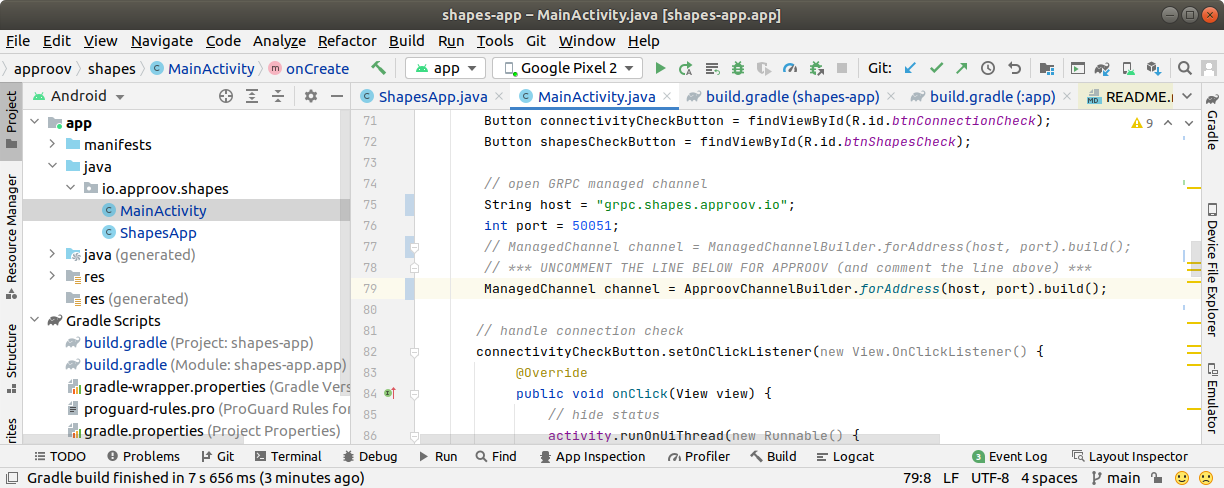
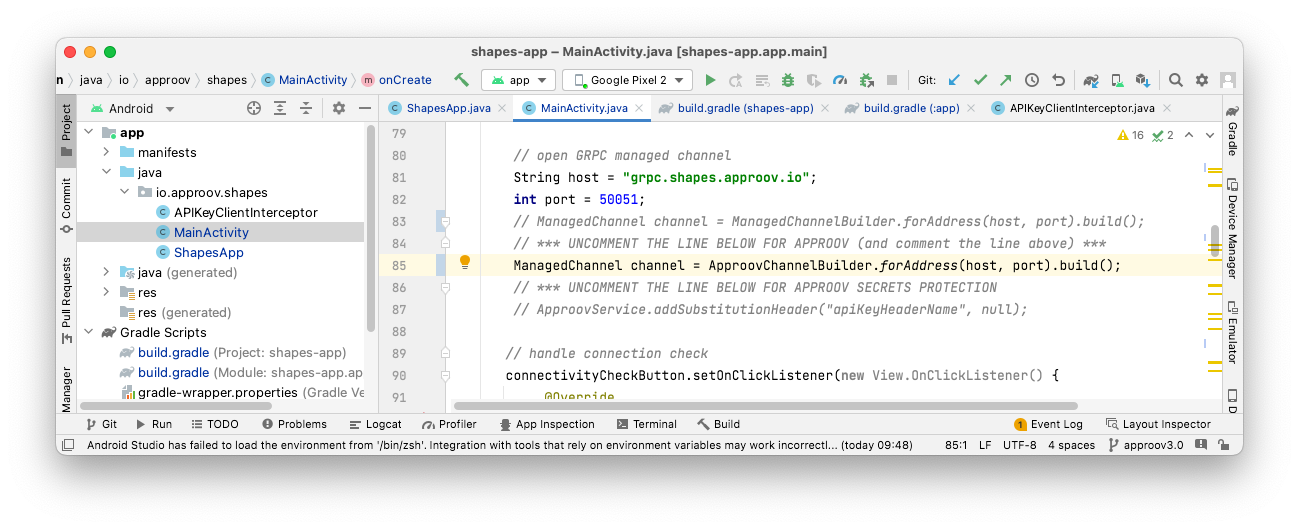
Update docs, screenshots.

diff --git a/shapes-app/app/src/main/java/io/approov/shapes/MainActivity.java b/shapes-app/app/src/main/java/io/approov/shapes/MainActivity.java
@@ -26,9 +26,10 @@ import android.widget.Button;
 import android.widget.ImageView;
 import android.widget.TextView;
 
-// *** UNCOMMENT THE TWO LINES BELOW FOR APPROOV ***
+// *** UNCOMMENT THE THREE LINES BELOW FOR APPROOV ***
 // import io.approov.service.grpc.ApproovChannelBuilder;
 // import io.approov.service.grpc.ApproovClientInterceptor;
+// import io.approov.service.grpc.ApproovService;
 import io.grpc.ManagedChannel;
 import io.grpc.ManagedChannelBuilder;
 
@@ -82,7 +83,6 @@ public class MainActivity extends Activity {
         ManagedChannel channel = ManagedChannelBuilder.forAddress(host, port).build();
         // *** UNCOMMENT THE LINE BELOW FOR APPROOV (and comment the line above) ***
         // ManagedChannel channel = ApproovChannelBuilder.forAddress(host, port).build();
-
         // *** UNCOMMENT THE LINE BELOW FOR APPROOV SECRETS PROTECTION
         // ApproovService.addSubstitutionHeader("apiKeyHeaderName", null);
 
@@ -161,10 +161,12 @@ public class MainActivity extends Activity {
                     try {
                         // Get calling stub
                         ShapeGrpc.ShapeBlockingStub stub = ShapeGrpc.newBlockingStub(channel);
-                        APIKeyClientInterceptor apiKeyAddingClientInterceptor = new APIKeyClientInterceptor(apiKeyHeaderName, apiSecretKey);
+                        APIKeyClientInterceptor apiKeyAddingClientInterceptor =
+                                new APIKeyClientInterceptor(apiKeyHeaderName, apiSecretKey);
                         stub = stub.withInterceptors(apiKeyAddingClientInterceptor);
-                        // *** UNCOMMENT THE LINE BELOW FOR APPROOV (and comment the line above) ***
-                        // stub = stub.withInterceptors(apiKeyAddingClientInterceptor, new ApproovClientInterceptor(channel));
+                        // *** UNCOMMENT THE TWO LINES BELOW FOR APPROOV (and comment the line above) ***
+                        // stub = stub.withInterceptors(apiKeyAddingClientInterceptor,
+                        //        new ApproovClientInterceptor(channel));
 
                         // Make fetch shape call
                         ShapeReply response = stub.shape(ShapeRequest.newBuilder().build());

diff --git a/SHAPES-EXAMPLE.md b/SHAPES-EXAMPLE.md
@@ -38,7 +38,7 @@ The subsequent steps of this guide show you how to provide better protection, ei
 
 ## ADD THE APPROOV DEPENDENCY
 
-The Approov integration is available via [`jitpack`](https://jitpack.io). This allows inclusion into the project by simply specifying a dependency in the `gradle` files for the app. Firstly, `jitpack` needs to be added to the `repositories` section in the `build.gradle` file at the top level of the project by uncommenting line 23:
+The Approov integration is available via [`jitpack`](https://jitpack.io). This allows inclusion into the project by simply specifying a dependency in the `gradle` files for the app. Firstly, `jitpack` needs to be added to the `repositories` section in the `build.gradle` file at the top level of the project by uncommenting line 24:
 
 ```
 maven { url 'https://jitpack.io' }
@@ -70,11 +70,11 @@ Tokens for this domain will be automatically signed with the specific secret for
 
 ## MODIFY THE APP TO USE APPROOV
 
-Uncomment the `ApproovService` import and the initialization call in `io/approov/shapes/ShapesApp.java` at lines 24 and 33, respectively:
+Uncomment the `ApproovService` import and the initialization call in `io/approov/shapes/ShapesApp.java` at lines 23 and 32, respectively:
 
 ![Approov Initialization](readme-images/approov-init-code.png)
 
-This initializes Approov when the app is first created. The Approov SDK needs a configuration string to identify the account associated with the app. It will have been provided in the Approov onboarding email (it will be something like `#123456#K/XPlLtfcwnWkzv99Wj5VmAxo4CrU267J1KlQyoz8Qo=`). Copy this into `io/approov/shapes/ShapesApp.java:36`, replacing the text `<enter-your-config-string-here>`.
+This initializes Approov when the app is first created. The Approov SDK needs a configuration string to identify the account associated with the app. It will have been provided in the Approov onboarding email (it will be something like `#123456#K/XPlLtfcwnWkzv99Wj5VmAxo4CrU267J1KlQyoz8Qo=`). Copy this into `io/approov/shapes/ShapesApp.java`, replacing the text `<enter-your-config-string-here>`.
 
 The configuration string can also be obtained by issuing this Approov CLI command:
 
@@ -82,32 +82,27 @@ The configuration string can also be obtained by issuing this Approov CLI comman
 approov sdk -getConfigString
 ```
 
-Next we need to use Approov when we make a request for a shape. A few lines of code need to be changed in the file `io/approov/shapes/MainActivity.java`. Uncomment the imports of `ApproovChannelBuilder` and `ApproovClientInterceptor` in lines 31 and 32:
+Next we need to use Approov when we make a request for a shape. A few lines of code need to be changed in the file `io/approov/shapes/MainActivity.java`. Uncomment the imports of `ApproovChannelBuilder`, `ApproovClientInterceptor` and `ApproovService` in lines 30-32:
 
 ![Approov Import](readme-images/approov-import.png)
 
-Line 77 needs to be commented out and line 79 needs to be uncommented:
+Line 83 needs to be commented out and line 85 needs to be uncommented:
 
 ![Approov Pin](readme-images/approov-pin.png)
 
-This creates a channel as normal, but also pins the connection to the endpoint to ensure that no Man-in-the-Middle can eavesdrop on any communication being made.
+This creates a channel as normal, but also pins the connection to the server to ensure that no Man-in-the-Middle can eavesdrop on any communication being made.
 
-Line 157 needs to be uncommented:
+Comment out line 166 and uncomment lines 168, 169 to add an `ApproovClientInterceptor` to the calling stub:
 
-![Approov Fetch](readme-images/approov-fetch.png)
+![Approov Interceptor](readme-images/approov-interceptor.png)
 
-We add an `ApproovClientInterceptor` to the calling stub. The interceptor automatically fetches an Approov token and adds it as a header to any GRPC request made and may also substitute header values to hold secure string secrets.
+The interceptor automatically fetches an Approov token and adds it as a header to any GRPC request made and may also substitute header values to hold secure string secrets.
 
 Note that this interceptor may cancel a request (with an `ApproovException` as the error) if it is unable to fetch an Approov token. If this is due to no or poor Internet connectivity then the exception is an `ApproovNetworkException`. In this case the user should be able to initiate a retry. During development a cancel may occur due to a misconfiguration, see [Token Fetch Errors](https://approov.io/docs/latest/approov-usage-documentation/#token-fetch-errors).
 
-You should also edit lines 163-165 of `MainActivity.java` to change to using the `approovShape` remote procedure call that checks the Approov token (as well as the API key built into the app):
+Finally, edit lines 172-174 of `MainActivity.java` to change to using the `approovShape` remote procedure call for which the server checks the Approov token (as well as the API key built into the app):
 
-```Java
-// Make fetch shape call
-// ShapeReply response = stub.shape(request);
-// *** UNCOMMENT THE LINE BELOW FOR APPROOV API PROTECTION (and comment the line above) ***
-ShapeReply response = stub.approovShape(request);
-```
+![Approov Fetch Shape](readme-images/approov-fetch.png)
 
 Run the app again to ensure that the `app-debug.apk` in the generated build outputs is up to date.
 
@@ -147,7 +142,7 @@ If you still don't get a valid shape then there are some things you can try. Rem
 
 ## SHAPES APP WITH SECRETS PROTECTION
 
-This section provides an illustration of an alternative option for Approov protection if you are not able to modify the backend to add an Approov Token check. Firstly, revert any previous change to `MainActivity.java`, lines 163-165 to using the `shape` GRPC that simply checks for an API key:
+This section provides an illustration of an alternative option for Approov protection if you are not able to modify the backend to add an Approov Token check. Firstly, revert any previous change to `MainActivity.java`, lines 172-174 to using the `shape` GRPC that simply checks for an API key:
 
 ```Java
 // Make fetch shape call
@@ -156,7 +151,7 @@ ShapeReply response = stub.shape(request);
 // ShapeReply response = stub.approovShape(request);
 ```
 
-The `shapes_api_key` should also be changed to `shapes_api_key_placeholder` at `MainActivity.java`, lines 45-47, removing the actual API key out of the code:
+The `shapes_api_key` should also be changed to `shapes_api_key_placeholder` at `MainActivity.java`, lines 46-47, removing the actual API key out of the code:
 
 ```Java
 // String apiSecretKey = "yXClypapWNHIifHUWmBIyPFAm";
@@ -179,7 +174,7 @@ approov secstrings -addKey shapes_api_key_placeholder -predefinedValue yXClypapW
 
 > Note that this command also requires an [admin role](https://approov.io/docs/latest/approov-usage-documentation/#account-access-roles).
 
-Next we need to inform Approov that it needs to substitute the placeholder value for the real API key on the `Api-Key` header. Only a single line of code needs to be changed at `io/approov/shapes/MainActivity.java`, line 88:
+Next we need to set up `ApproovService` so that it substitutes the placeholder value for the real API key on the `Api-Key` header. For this, only one further line of code needs to be changed at `io/approov/shapes/MainActivity.java`, line 87:
 
 ```
 // *** UNCOMMENT THE LINE BELOW FOR APPROOV SECRETS PROTECTION
